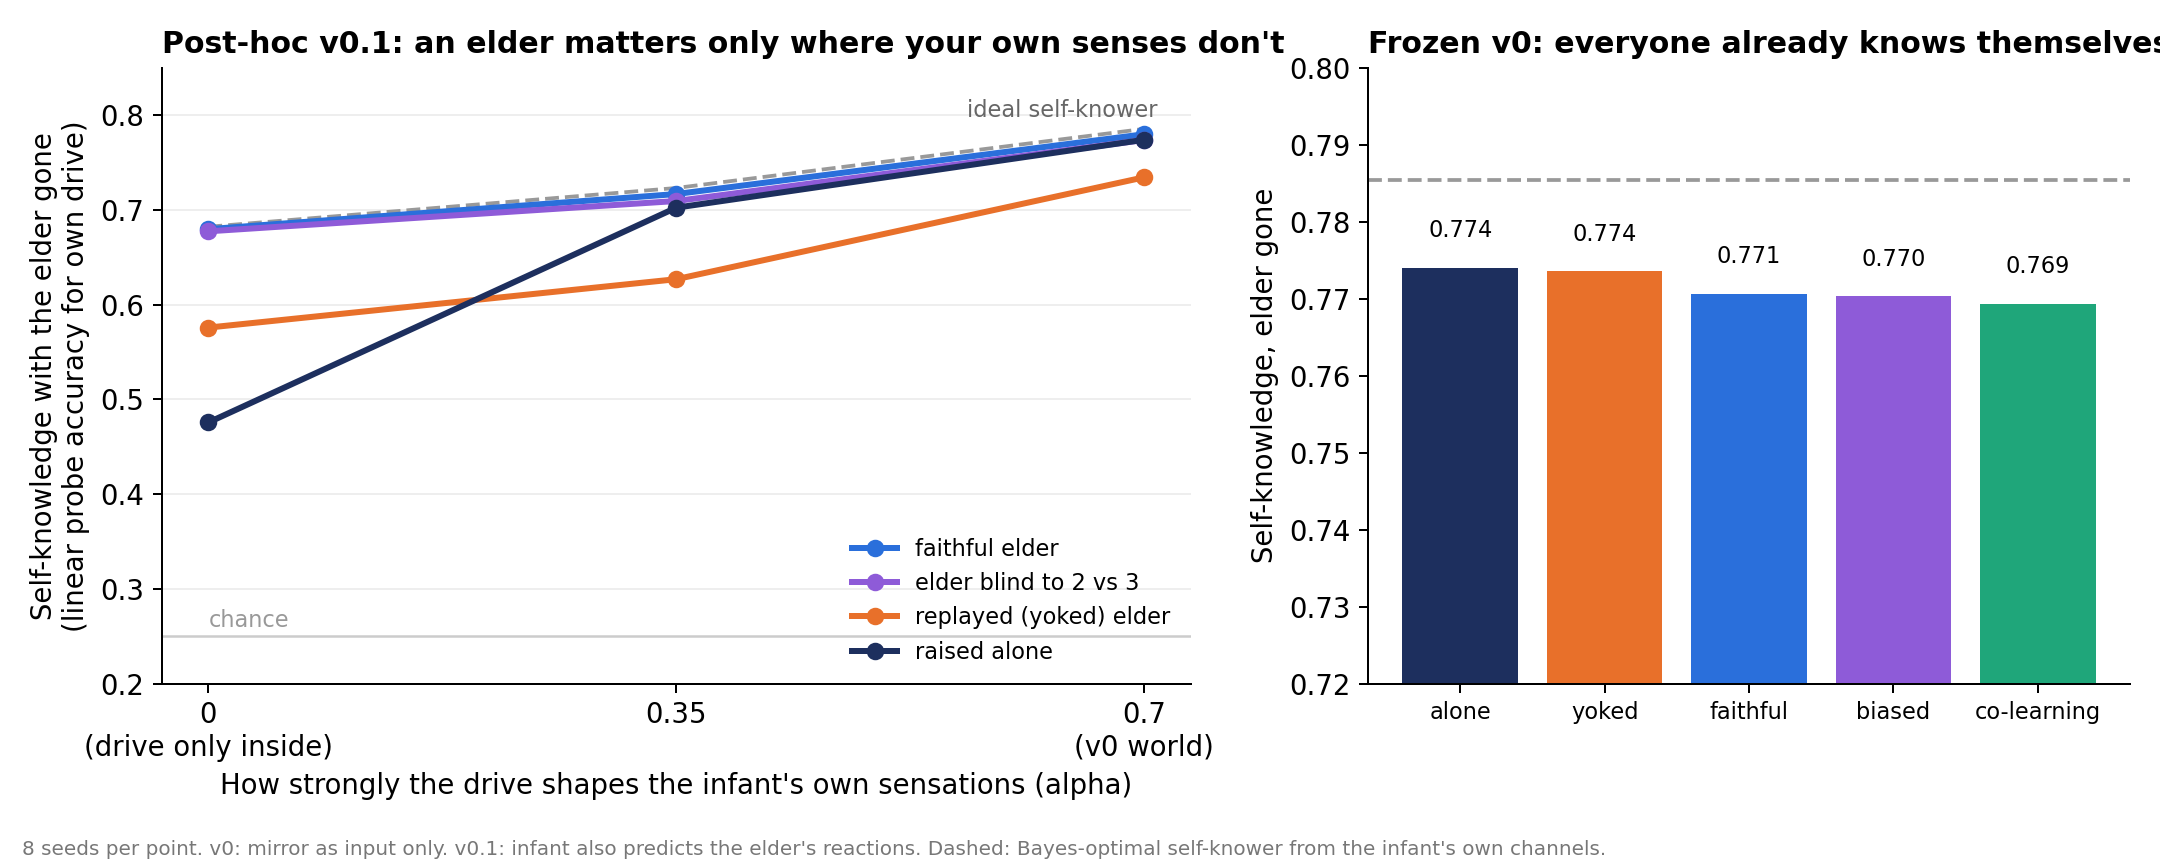
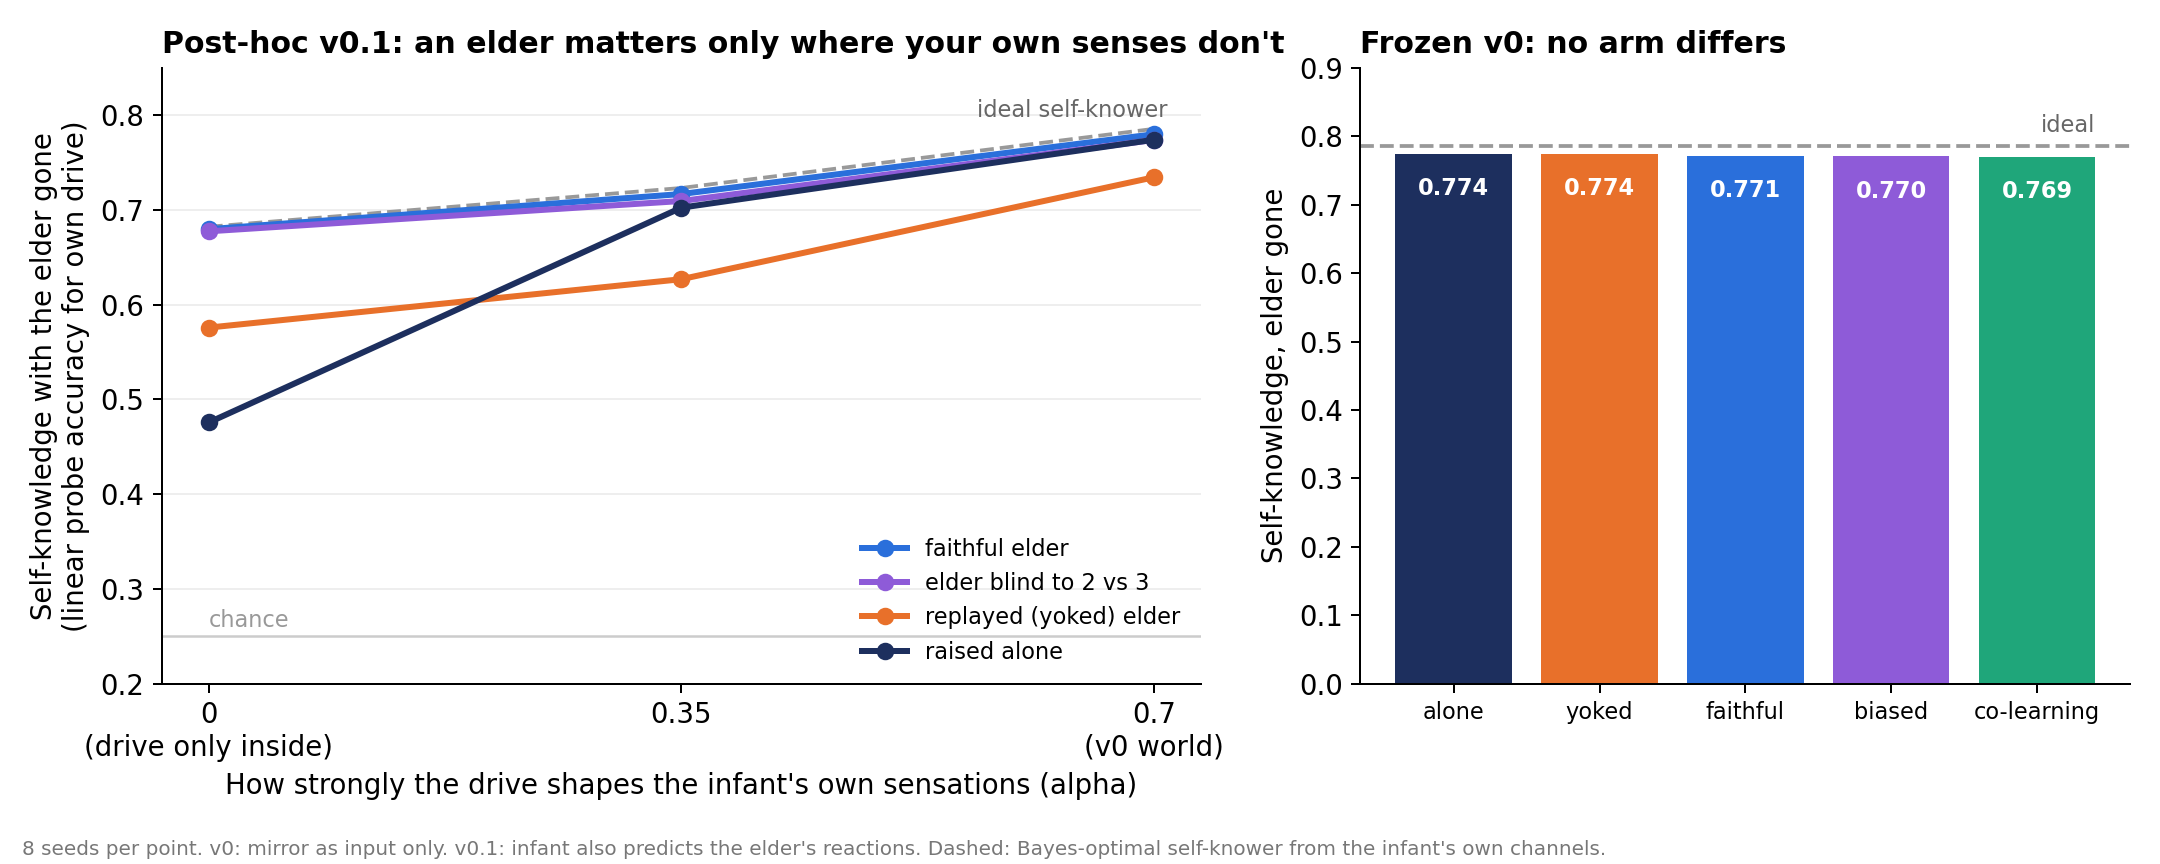
README with frozen scorecard and post-hoc results; ledgers updated
Claude-Session: https://claude.ai/code/session_01Qc8hKfxmmALC4J7tWkALWb

diff --git a/scripts/make_figure.py b/scripts/make_figure.py
@@ -46,11 +46,12 @@ cols = ["#1d2f5e", "#e8702a", "#2a6fdb", "#8e5bd8", "#1fa67a"]
 ax.bar(range(5), vals, color=cols)
 ax.axhline(V0["arm_means"]["ALONE"]["IDEAL_SELF"], color="#999", ls="--", lw=1.5)
 for i, v in enumerate(vals):
-    ax.text(i, v + 0.004, f"{v:.3f}", ha="center", fontsize=9)
+    ax.text(i, v - 0.06, f"{v:.3f}", ha="center", fontsize=9, color="white", fontweight="bold")
 ax.set_xticks(range(5), ["alone", "yoked", "faithful", "biased", "co-learning"], fontsize=9)
-ax.set_ylim(0.72, 0.80)
-ax.set_title("Frozen v0: everyone already knows themselves", loc="left", fontsize=12, fontweight="bold")
+ax.set_ylim(0.0, 0.9)
+ax.set_title("Frozen v0: no arm differs", loc="left", fontsize=12, fontweight="bold")
 ax.set_ylabel("Self-knowledge, elder gone")
+ax.text(4.4, V0["arm_means"]["ALONE"]["IDEAL_SELF"] + 0.02, "ideal", color="#666", fontsize=9, ha="right")
 for s in ("top", "right"):
     ax.spines[s].set_visible(False)
 

diff --git a/README.md b/README.md
@@ -1,0 +1,187 @@
+# LinkitetytSekvenssiOppijat
+
+*Linked sequence learners.* Can a learner come to know its own inner state because another
+learner mirrors it, and keep that knowledge after the other is gone?
+
+**Status:** frozen v0 **failed every hypothesis**. A post-hoc v0.1, designed after that result
+and pre-registered before it ran, found the condition under which the idea holds.
+
+![self-knowledge by arm](results/self_knowledge.png)
+
+## The idea being tested
+
+If people are sequence learners, what happens when two of them are coupled? One version: part of
+the inner being is learned from others. The social-biofeedback theory (Gergely & Watson 1996)
+says infants learn to recognise their own emotional states through a caregiver's contingent
+mirroring. Murray & Trevarthen's double-video studies, replicated by Nadel et al. (1999), showed
+that two-month-olds treat a live mother and a replay of the same mother differently.
+
+This repository builds the smallest machine version of both.
+
+## What was built
+
+One hidden **drive** d ∈ {0,1,2,3} (a mood) changes slowly inside an infant. It shapes three
+channels:
+
+| channel | who sees it | strength |
+|---|---|---|
+| the infant's own sensation stream (tokens whose transitions depend on d) | infant | set by alpha |
+| interoception | infant only | weak |
+| face | elder only | clear |
+
+You cannot see your own face; the other cannot feel your insides.
+
+The **infant** is a GRU that learns only from its own prediction errors. The **elder** reads the
+face and shows the infant what it sees. No gradient ever crosses between them (unit-tested).
+Self-knowledge is measured with the elder gone, by a linear probe for the drive on the infant's
+hidden state. The ideal self-knower is a Bayes filter on the infant's own channels.
+
+| arm | what the elder shows |
+|---|---|
+| ALONE | nothing |
+| YOKED | the faithful elder's display for a *different* infant: same statistics, not contingent |
+| FAITHFUL | the ideal reading of this infant's face |
+| BIASED | as faithful, but blind to the difference between drives 2 and 3 |
+| COLEARN (v0 only) | an elder GRU learning at the same time, from its own errors only |
+
+The world was tuned only against ideal observers (`docs/CALIBRATION.md`). Predictions were
+committed before any learner code existed (`PREDICTIONS.md`). Seeds: 3, 17, 29, 41, 59, 73, 97, 113.
+
+## Frozen v0: the mirror as input — nothing
+
+In v0, the drive shapes the infant's own sensations strongly (alpha 0.7). The elder's display is
+shown on half the episodes, and the infant uses it as input.
+
+| arm | self-knowledge, elder gone |
+|---|---:|
+| ALONE | 0.774 |
+| YOKED | 0.774 |
+| FAITHFUL | 0.771 |
+| BIASED | 0.770 |
+| COLEARN | 0.769 |
+| ideal self-knower | 0.785 |
+
+| gate | result |
+|---|---|
+| G0 setup works (mirror read when on: 0.926) | pass |
+| H1 mirror becomes inner (faithful − alone ≥ +0.03) | **fail**: −0.003, 0/8 seeds positive |
+| H2 blind spot inherited | **fail**: −0.001 |
+| H3 mirror teaches reading interoception | **fail**: +0.007 (6/8 positive, needed +0.02) |
+| H4 a co-learning elder is enough | **fail**: −0.004, 0/8 |
+| H5 mirror speeds development | **fail, reversed**: −0.006 at 500 steps |
+
+Infants raised alone reached 98.5 % of the ideal. Their own prediction task already required
+knowing the drive, so the mirror had nothing to teach. It was a small crutch: mirror arms were
+slightly behind at every checkpoint (at 250 steps, faithful 0.691 vs alone 0.707).
+
+My design error: I calibrated the "room to learn" against the ideal observer, not against what a
+learner reaches on its own.
+
+## Post-hoc v0.1: predicting how the elder reacts — the line appears
+
+`POSTHOC.md` was written after v0's result and committed before any v0.1 run. Two changes:
+
+1. The elder reacts in brief glances (probability 0.15 per step), and the infant must **predict its
+   next reaction**, not only receive it.
+2. The drive's effect on the infant's own sensations is swept: alpha 0, 0.35, 0.7.
+
+| alpha | alone | yoked | faithful | biased | ideal |
+|---|---:|---:|---:|---:|---:|
+| 0 (drive only inside) | 0.476 | 0.576 | **0.680** | 0.677 | 0.682 |
+| 0.35 | 0.702 | 0.627 | 0.717 | 0.709 | 0.723 |
+| 0.7 (v0's world) | 0.774 | 0.734 | 0.780 | 0.774 | 0.785 |
+
+| prediction | result |
+|---|---|
+| PH1 at alpha 0, faithful − alone ≥ +0.05; at 0.7, under 0.02 | **pass**: +0.204 (8/8) → +0.006 |
+| PH2 contingency: faithful − yoked ≥ +0.05 **and** yoked ≈ alone | **fail**: faithful beats yoked by +0.104 (8/8), but yoked also beats alone by +0.100 |
+| PH3 blind spot inherited at alpha 0 (≥ +0.05 on drive 2 vs 3) | **fail**: +0.002 |
+| PH4 the benefit shrinks steadily with alpha | **pass**: +0.204, +0.014, +0.006 |
+
+What the post-hoc shows:
+
+- **You learn alone what your own predictions need.** Where the drive shapes the infant's own
+  senses, a partner adds almost nothing lasting.
+- **You learn from others what only others react to.** When the drive touches only the insides and
+  the face, an infant raised alone barely knows it (0.476). An infant that had to predict a
+  faithful elder's reactions knows it to the ideal (0.680 of 0.682), and keeps knowing it with the
+  elder gone. It learned to read its own interoception, because that was the only way to
+  anticipate the elder.
+- **Contingency matters, but not only contingency.** A replayed elder gives half the benefit where
+  the state is invisible to the infant's own senses. Where the infant would learn the state anyway,
+  it **hurts** (−0.075 at 0.35, −0.040 at 0.7; 0/8 seeds positive). One untested explanation:
+  predicting any slow signal lengthens the infant's memory, which also integrates interoception
+  longer.
+- **The elder's blind spot mostly did not pass on.** At alpha 0 the biased elder's infant tells 2
+  from 3 as well as the faithful one's. A small, specific deficit appears at 0.35 and 0.7 (+0.011,
+  +0.009 on 2 vs 3, 8/8; the 0-vs-1 control is unchanged). This world makes that test weak: each
+  drive has its own interoceptive channel, so telling 2 from 3 costs nothing once the infant
+  listens at all. The elder taught the infant to *listen inward*; it could not teach it *which
+  categories to use*, because the categories were already in the inputs.
+
+**For the coupled-learners idea:** in this machine, "part of the inner being comes from coupling"
+holds for exactly the part of you that only others' reactions make worth knowing. It holds only
+if you learn by predicting how others respond to you, not by just receiving what they show.
+
+## How this fixes CoupledSequenceLearners v0
+
+| problem in that v0 | here |
+|---|---|
+| the score averaged both learners' guesses, which pools their private information for free | only the infant's own hidden state is scored |
+| the yoked arm froze only one side's outgoing messages | the elder's whole signal, timing and content, comes from another episode |
+| one optimizer trained both learners through the channel | the infant learns only from its own errors; no gradient reaches any elder |
+
+## Ledger: limits and what is not new
+
+- **Post-hoc, not confirmatory.** v0.1 was designed after v0 failed. Its predictions were committed
+  first, but it should be repeated on fresh seeds before anyone relies on it.
+- **The elder is an ideal observer**, except in v0's co-learning arm. Only the infant learns in
+  v0.1. A two-way version, where the elder also learns from the infant's reactions, is untested.
+- **Tiny world**: 4 drives, 6 tokens, 64 steps, 32-unit GRUs, 2000 steps, 8 seeds.
+- **Linear probe**: it measures what is readable from the infant's state, not what the infant uses.
+- **At alpha 0 the main effect is partly built in**: predicting the elder is the only reason to know
+  the drive. The non-trivial parts are that it lasts with the elder gone, the yoked results, and
+  where the line falls as alpha grows.
+- **Not new**: social biofeedback (Gergely & Watson 1996); contingency in infancy (Murray &
+  Trevarthen 1985; Nadel et al. 1999); auxiliary prediction tasks shaping representations
+  (Jaderberg et al. 2016). What is specific here is the measured line: partner-dependence as a
+  function of how much the state matters for one's own predictions, and the harm from a replayed
+  partner.
+- **Next, if continued**: an inner signal where telling 2 from 3 needs learned combination, to give
+  the blind spot a fair test; and an elder that learns back.
+
+## Run it
+
+```
+pip install numpy torch matplotlib pytest
+python -m pytest -q                  # 10 tests
+python scripts/calibrate_world.py    # ideal observers
+python scripts/run_frozen.py         # v0, ~25 min on 2 cores
+python scripts/summarize.py
+python scripts/run_posthoc.py        # v0.1, ~50 min on 2 cores
+python scripts/summarize_posthoc.py
+python scripts/make_figure.py
+```
+
+## Layout
+
+```
+PREDICTIONS.md          frozen v0 predictions and ledger
+POSTHOC.md              v0.1 design and predictions (written after v0, before v0.1 ran)
+docs/CALIBRATION.md     how the world was tuned, ideal observers only
+docs/EXPERIMENT_LOG.md  chronological log, including the pilot smoke run
+lso/world.py            the world, the ideal observers, faithful and biased elders
+lso/agents.py           infant and co-learning elder
+lso/experiment.py       v0 development, test, probes
+lso/social.py           v0.1 social-prediction infant
+scripts/                runners, mechanical summarizers, figure
+results/                receipts per seed and arm, summaries, figure
+```
+
+## References
+
+- Gergely G, Watson JS (1996). The social biofeedback theory of parental affect-mirroring. *Int J Psychoanal* 77:1181–1212.
+- Murray L, Trevarthen C (1985). Emotional regulation of interactions between two-month-olds and their mothers. In Field & Fox (eds.), *Social Perception in Infants*.
+- Nadel J, Carchon I, Kervella C, Marcelli D, Réserbat-Plantey D (1999). Expectancies for social contingency in 2-month-olds. *Developmental Science* 2:164–173.
+- Jaderberg M, et al. (2016). Reinforcement learning with unsupervised auxiliary tasks. arXiv:1611.05397.
+- Hu H, Lerer A, Peysakhovich A, Foerster J (2020). "Other-Play" for zero-shot coordination. *ICML*.

diff --git a/docs/EXPERIMENT_LOG.md b/docs/EXPERIMENT_LOG.md
@@ -28,3 +28,15 @@ no effect on training).
 
 Runner: `scripts/run_frozen.py`, one process per (seed, arm), two at a time.
 Summary: `scripts/summarize.py` → `results/summary.json`, written before the frozen run.
+
+Result (`results/summary.json`): G0 pass; H1–H5 all fail. Infants raised alone reached 0.774
+self-knowledge against an ideal of 0.785. Mirror arms slightly behind at every checkpoint.
+
+## 5. Post-hoc v0.1 (after the frozen result)
+
+`POSTHOC.md` written and committed (0c1610f) before its code or any run. Code in `lso/social.py`,
+kept separate so v0 stays reproducible. 96 runs: 3 alphas × 8 frozen seeds × 4 arms.
+Result (`results/posthoc_summary.json`): PH1 pass, PH2 fail, PH3 fail, PH4 pass.
+
+Figure fix (presentation only): the v0 panel first used a y-axis starting at 0.72, which made
+differences of 0.005 look large; it now starts at 0.

diff --git a/PREDICTIONS.md b/PREDICTIONS.md
@@ -91,4 +91,8 @@ self-reading route independently when absent, in which case nothing transfers.
 
 ## Ledger of changes after freezing
 
-(none yet)
+- Cosmetic: the training-loss log now calls `loss.detach()` (removes a warning; training unchanged).
+  Made after the pilot smoke run, before the frozen run.
+- Nothing else in the design, metrics, thresholds or seeds changed.
+- After the frozen result, a separate post-hoc experiment was designed: see `POSTHOC.md`. It does
+  not replace or reinterpret any gate here.
